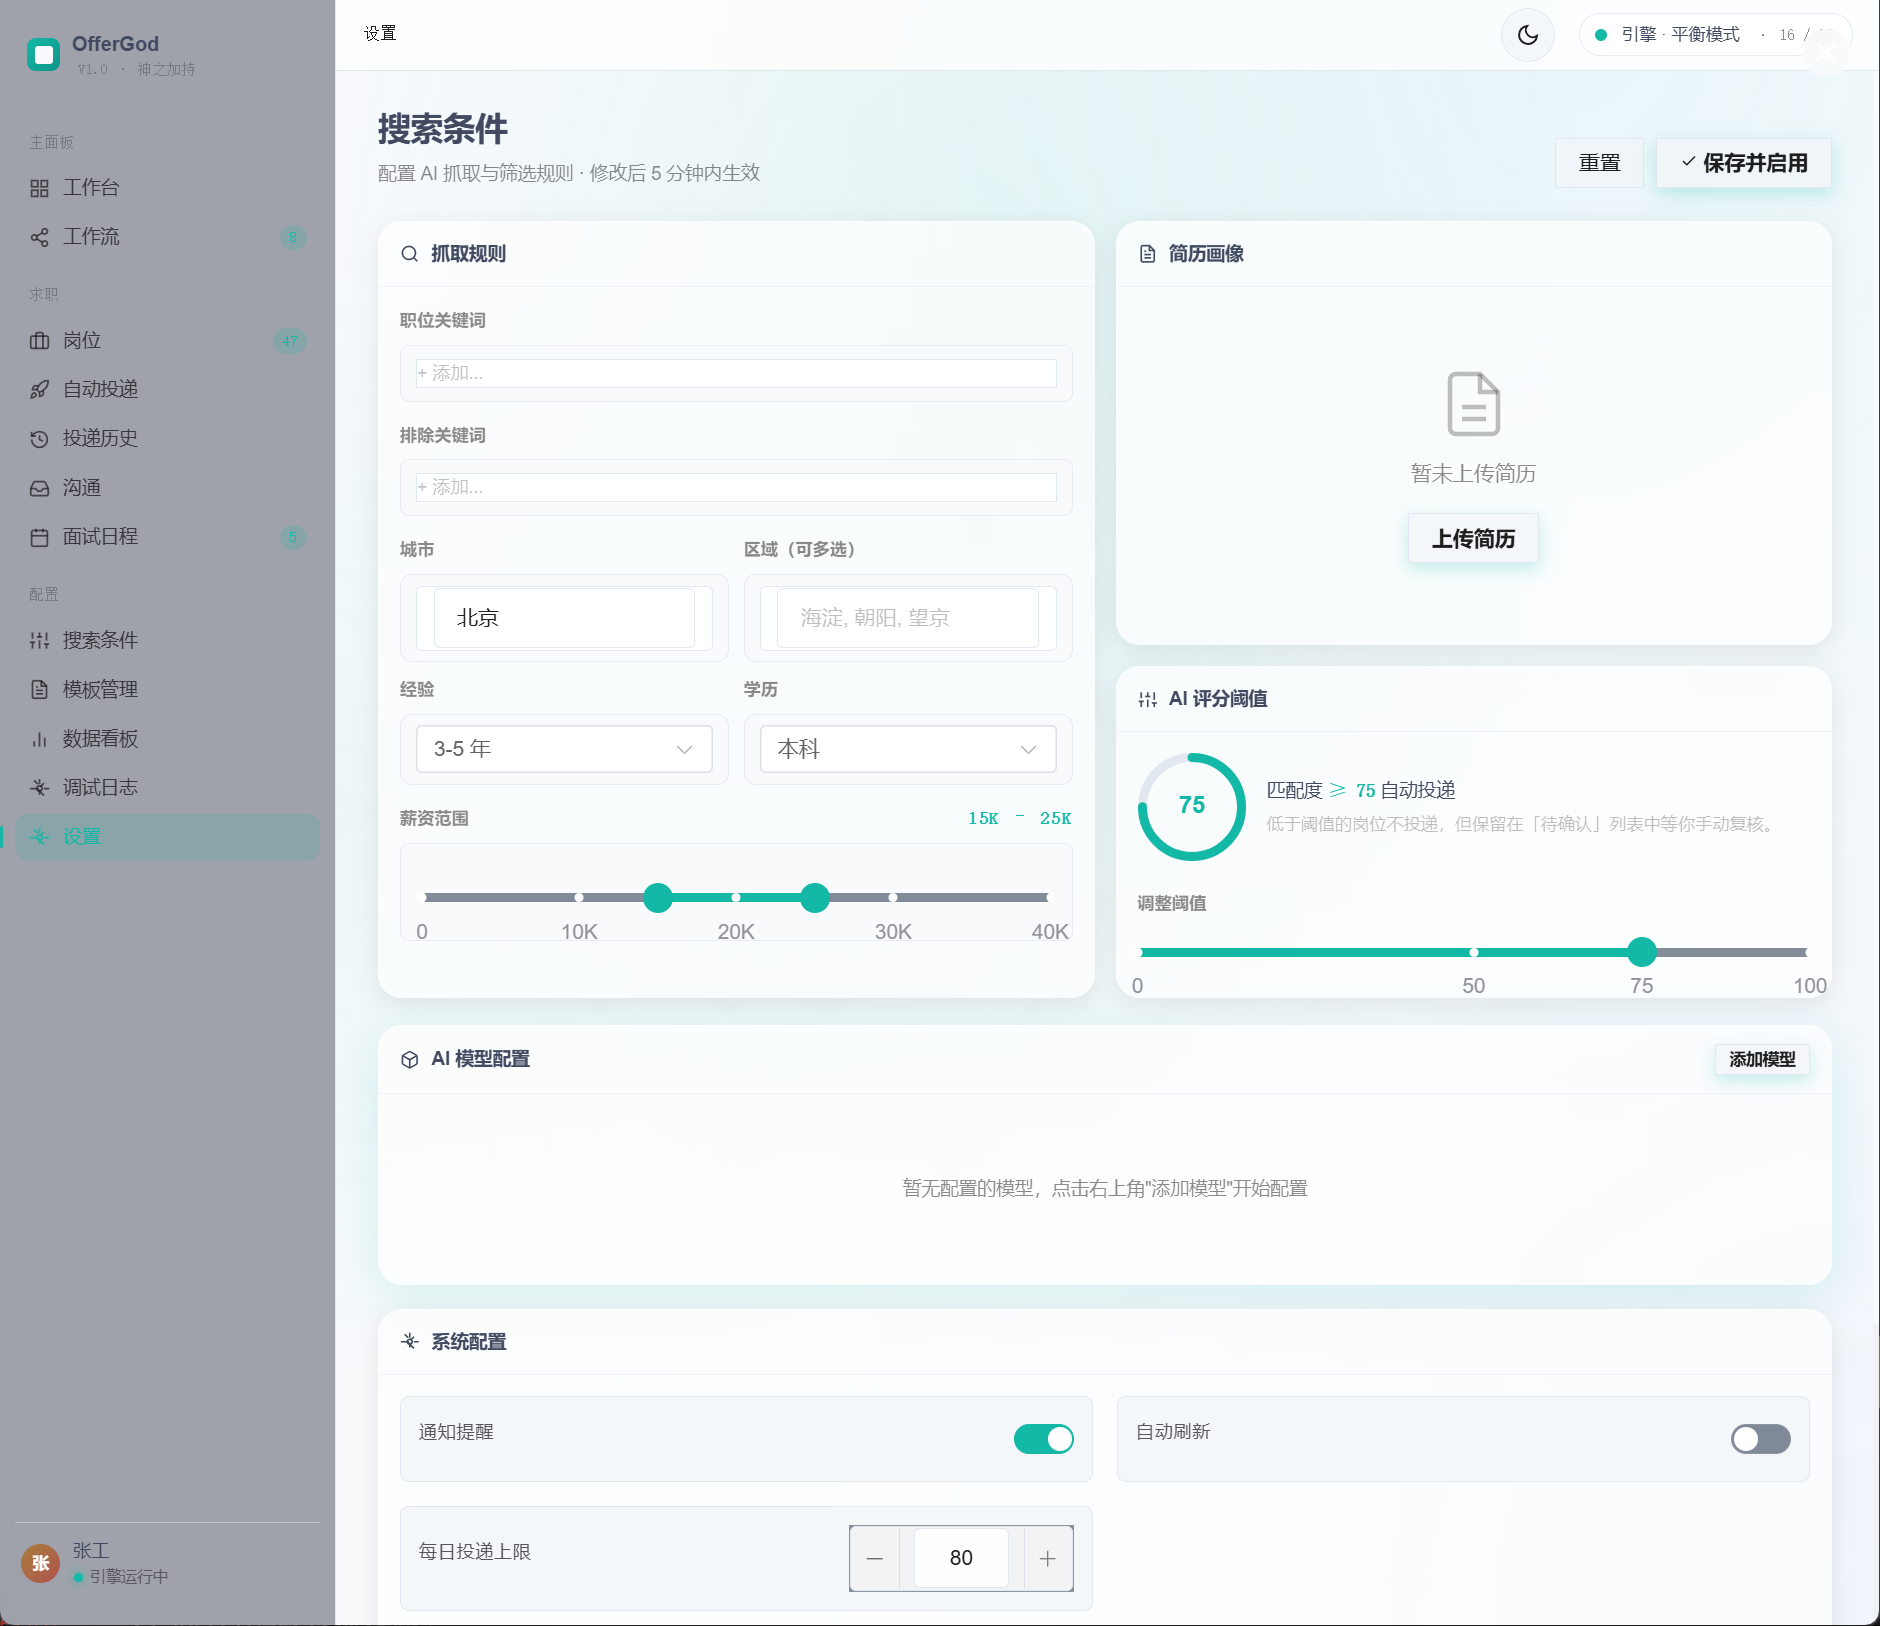
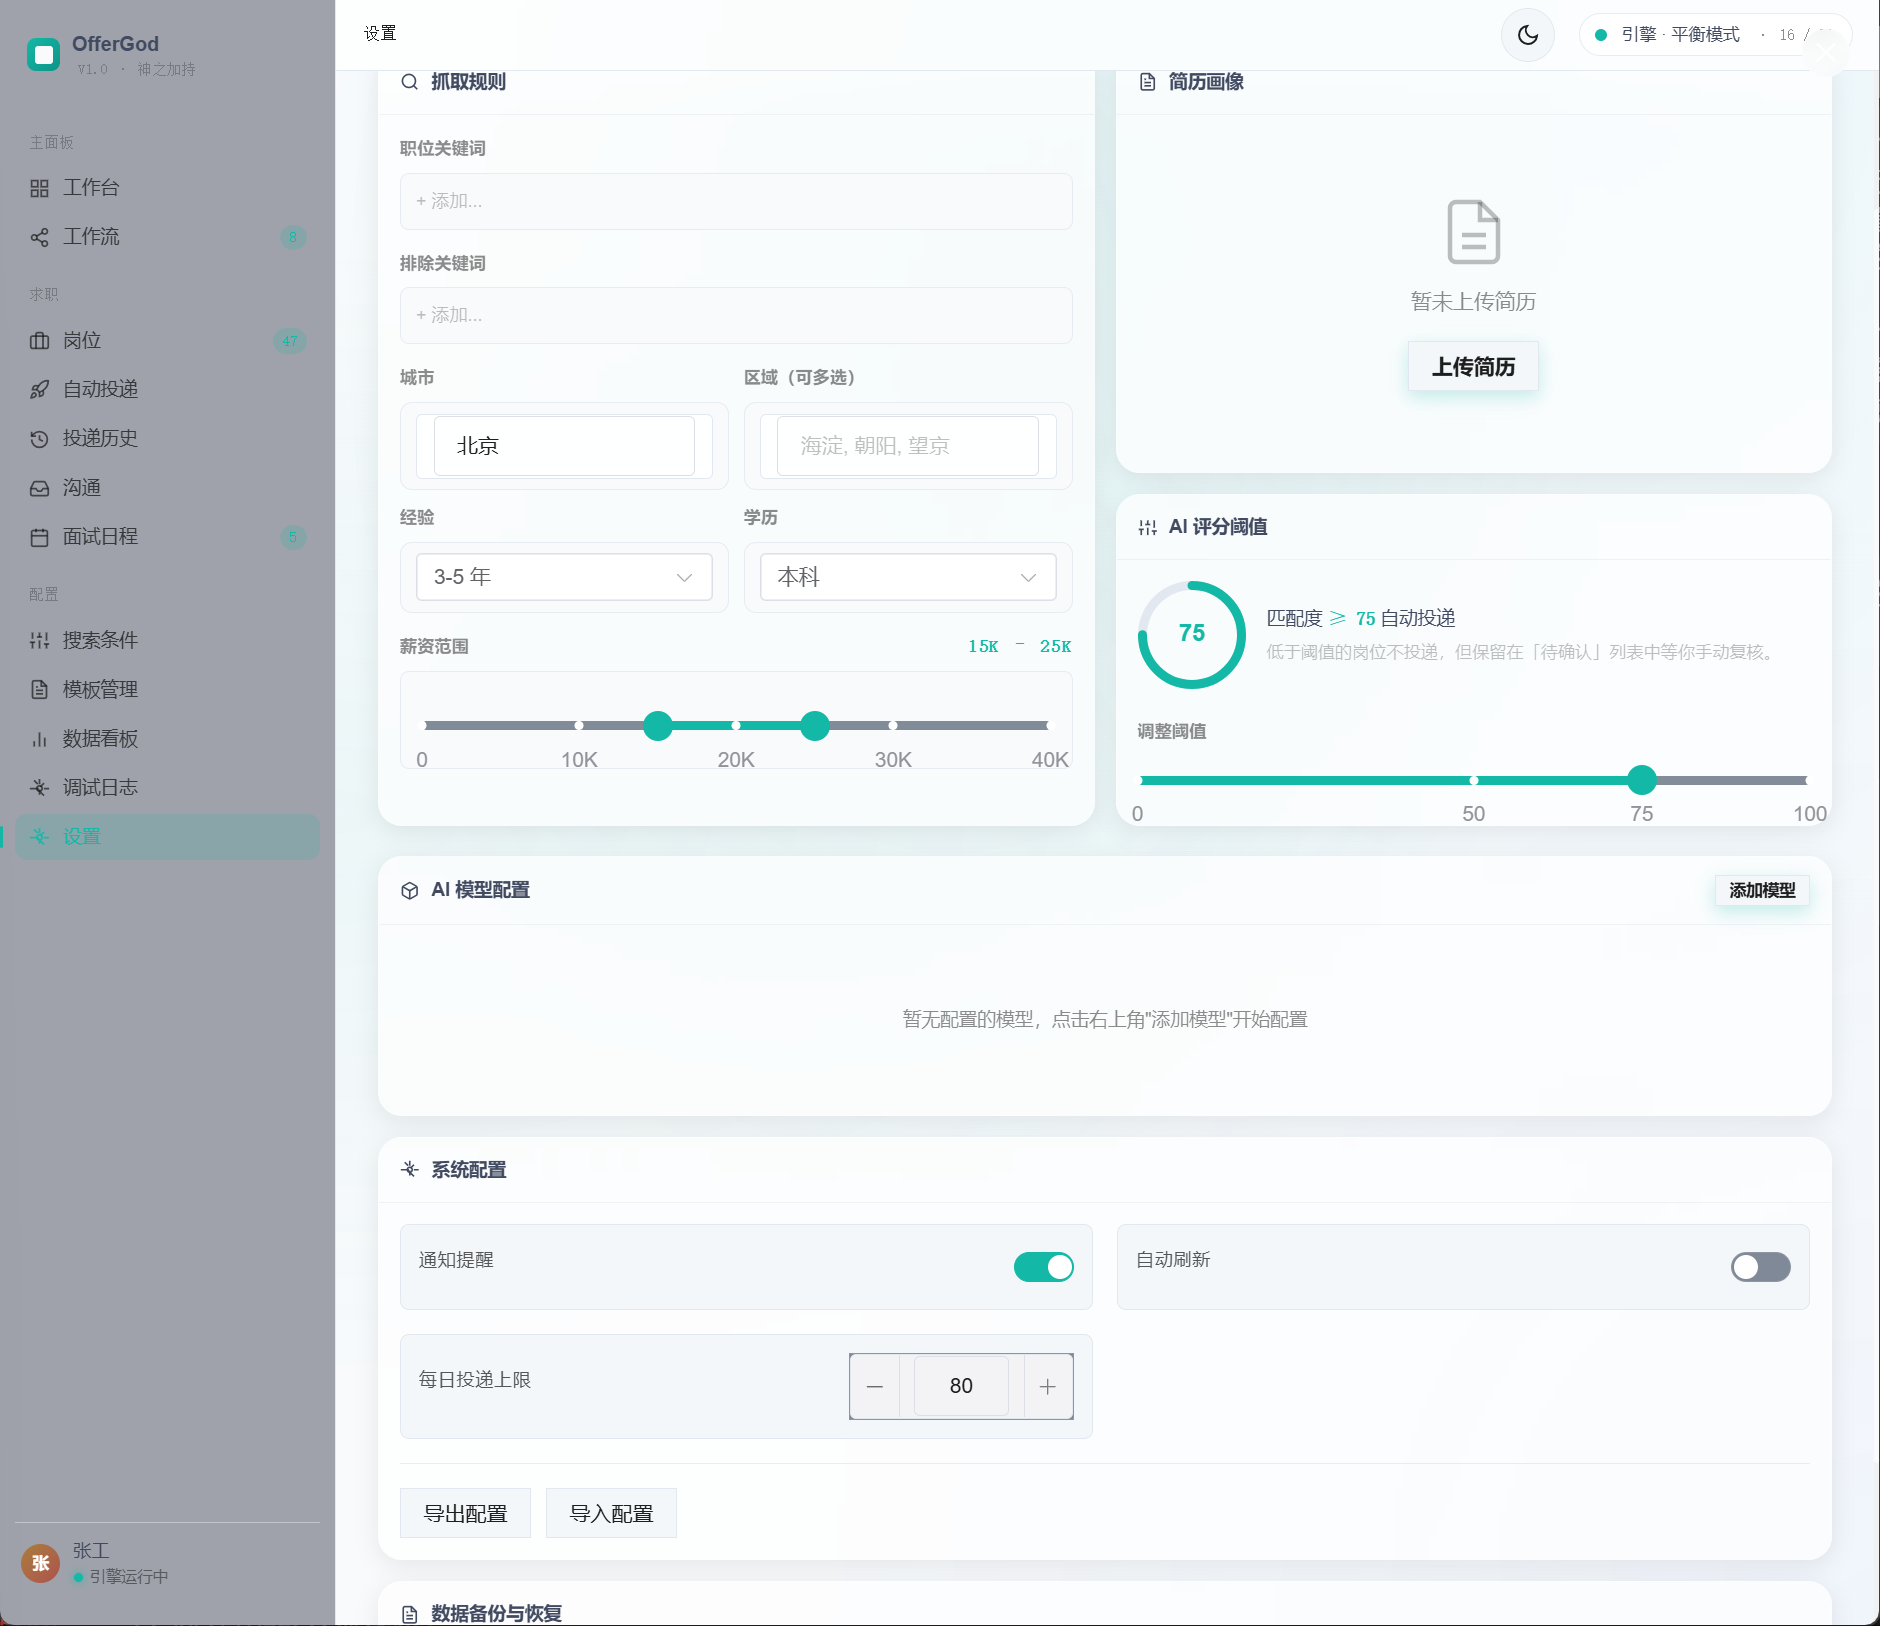
fix: 修复 Element Plus 组件双框问题
- 重置 Element Plus 组件内所有原生输入元素的样式
- 移除边框、阴影和背景，让组件自己的样式生效
- 修复数字输入框的容器样式
- 确保深色模式下的一致性

diff --git a/src/assets/theme-patch.css b/src/assets/theme-patch.css
@@ -29,6 +29,27 @@
   border-top: 1px solid rgba(255, 255, 255, 0.1) !important;
 }
 
+/* 重置 Element Plus 组件内所有原生输入元素的样式 */
+.el-input input,
+.el-input textarea,
+.el-select input,
+.el-input-number input,
+.el-textarea textarea {
+  border: none !important;
+  box-shadow: none !important;
+  background: transparent !important;
+}
+
+/* Element Plus 输入框容器 */
+.el-input,
+.el-select,
+.el-input-number,
+.el-textarea {
+  border: none !important;
+  box-shadow: none !important;
+  background: transparent !important;
+}
+
 /* Element Plus 输入框 */
 .el-input__wrapper {
   background: rgba(51, 65, 85, 0.6) !important;
@@ -50,6 +71,8 @@
 .el-input__inner {
   color: var(--fg-0) !important;
   background: transparent !important;
+  border: none !important;
+  box-shadow: none !important;
 }
 
 .el-input__inner::placeholder {
@@ -120,14 +143,22 @@
 
 /* Element Plus 数字输入框 */
 .el-input-number {
+  background: transparent !important;
+  border: none !important;
+  box-shadow: none !important;
+}
+
+.el-input-number .el-input__wrapper {
   background: rgba(51, 65, 85, 0.6) !important;
   border: 1px solid rgba(255, 255, 255, 0.1) !important;
+  box-shadow: none !important;
 }
 
 .el-input-number__decrease,
 .el-input-number__increase {
   background: transparent !important;
   color: var(--fg-1) !important;
+  border: none !important;
 }
 
 .el-input-number__decrease:hover,